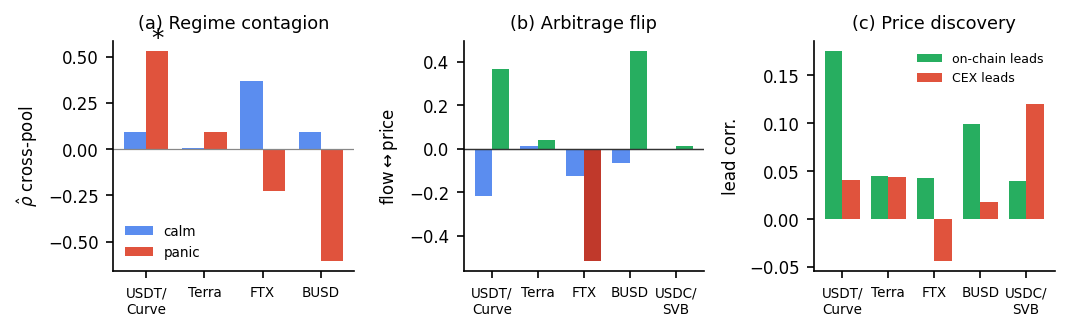
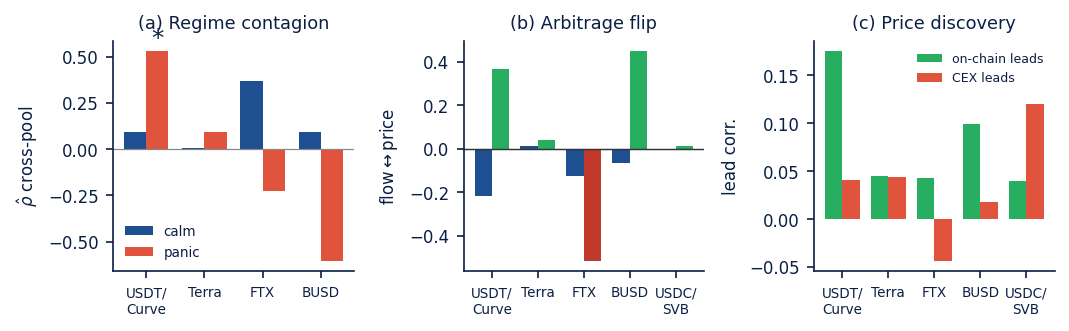
Columbia-themed figures + referee fixes: p-value discipline
- Columbia palette in composite/method figures (navy ink, Columbia-blue Tier-B)
- Paper: bootstrap one-sided p=0.035 as primary everywhere (analytic p=0.005 secondary),
  bind 116h to Terra / contemporaneous coupling to USDT-Curve

diff --git a/paper/main.tex b/paper/main.tex
@@ -62,7 +62,8 @@ episodes, we show the distinction is empirically sharp and, decisively,
 \emph{mechanism-specific}. For the June~2023 USDT/Curve episode, an
 \emph{endogenous} pool-imbalance shock, cross-pool flow coupling rises from
 near-zero in calm ($\hat{\rho}=0.09$) to $\hat{\rho}=0.53$ during the acute
-window (Fisher $z=+2.82$, block-bootstrap one-sided $p=0.035$), whereas none of the four
+window (a \emph{contemporaneous} lag-0 co-movement, not early warning; Fisher
+$z=+2.82$, block-bootstrap one-sided $p=0.035$), whereas none of the four
 \emph{exogenous} episodes (Terra/LUNA, USDC/SVB, FTX, BUSD) shows this
 activation despite identical Tier-A data, so the null is mechanism-specific,
 not a data gap. The same split governs structure and detection. On-chain
@@ -443,11 +444,12 @@ the difference via Fisher $r$-to-$z$ two-sample statistic.
 \end{equation}
 
 For USDT/Curve 2023 the coupling is near-zero in calm ($\hat{\rho}=0.09$, $p=0.38$)
-and rises to $\hat{\rho}=0.53$ during panic ($z_{\text{Fisher}}=+2.82$, $p=0.005$,
-one-sided), directional evidence consistent with contagion in the Forbes--Rigobon
-sense.  A 2000-sample block bootstrap (24-hour block length, $B=2000$) further
-supports the direction. 96.5\% of replicates yield $z>0$, equivalent to a one-sided
-$p=0.035$.  However, the 95\% CI is $[-0.10,\,+4.77]$. The lower bound is
+and rises to $\hat{\rho}=0.53$ during panic, directional evidence consistent with
+contagion in the Forbes--Rigobon sense. We take the \emph{conservative} block bootstrap
+as our primary test: a 2000-sample block bootstrap (24-hour block length, $B=2000$)
+gives a one-sided $p=0.035$, with $96.5\%$ of replicates yielding $z>0$. The parametric
+Fisher two-sample test agrees more optimistically as a secondary check
+($z_{\text{Fisher}}=+2.82$, analytic $p=0.005$). However, the 95\% CI is $[-0.10,\,+4.77]$. The lower bound is
 marginally negative owing to the short acute window ($n_{\text{panic}}{=}53$),
 and the formal two-sided test is not significant at the 0.05 level.  We therefore
 state this as \emph{strong directional evidence of coupling amplification (one-sided
@@ -467,7 +469,7 @@ shock} striking both pools simultaneously.
     red/green = panic).
     \textbf{(a)~Regime-switching contagion.}  Lag-0 cross-pool flow correlation
     in the calm vs.\ acute regime.  For USDT/Curve it jumps $0.09\!\to\!0.53$
-    ($*$. Fisher $z=2.82$, $p=0.005$). Only this endogenous shock activates,
+    ($*$. Fisher $z=2.82$; conservative block-bootstrap one-sided $p=0.035$). Only this endogenous shock activates,
     while the exogenous events stay flat or decouple.
     \textbf{(b)~Arbitrage flip.}  Contemporaneous flow-vs-price coupling.
     Negative (\emph{stabilizing}) in calm, turning positive (\emph{amplifying})

diff --git a/scripts/30_make_composite_figures.py b/scripts/30_make_composite_figures.py
@@ -12,10 +12,15 @@ from stressnet.utils.logging import get_logger
 warnings.filterwarnings("ignore"); logger = get_logger(__name__)
 
 FIG = results_root() / "paper" / "figures"; TAB = results_root() / "tables"
+_NAVY_INK = "#0A1F44"  # Columbia navy ink for axes / text
 plt.rcParams.update({"font.size": 8, "axes.titlesize": 8.5, "axes.labelsize": 8,
                      "axes.spines.top": False, "axes.spines.right": False,
-                     "figure.dpi": 150, "savefig.bbox": "tight"})
-C_CALM, C_PAN, C_POS, C_NEG = "#5B8DEF", "#E0533D", "#27AE60", "#C0392B"
+                     "figure.dpi": 150, "savefig.bbox": "tight",
+                     "text.color": _NAVY_INK, "axes.labelcolor": _NAVY_INK,
+                     "axes.titlecolor": _NAVY_INK, "axes.edgecolor": _NAVY_INK,
+                     "xtick.color": _NAVY_INK, "ytick.color": _NAVY_INK})
+# Refined Columbia palette: calm/baseline = Columbia navy; panic/pos/neg stay semantic.
+C_CALM, C_PAN, C_POS, C_NEG = "#1D4F91", "#E0533D", "#27AE60", "#C0392B"
 S = {"usdt_curve_2023":"USDT/\nCurve","terra_luna_2022":"Terra","ftx_2022":"FTX",
      "busd_2023":"BUSD","usdc_svb_2023":"USDC/\nSVB"}
 

diff --git a/scripts/31_make_method_figure.py b/scripts/31_make_method_figure.py
@@ -10,8 +10,10 @@ from stressnet.config import results_root
 from stressnet.utils.logging import get_logger
 logger = get_logger(__name__)
 
-CA, CB, CFX = "#27AE60", "#B9D9EB", "#E0533D"   # Tier-A, Tier-B, blocked/fixture
-plt.rcParams.update({"font.size": 8, "axes.titlesize": 8.5})
+CA, CB, CFX = "#27AE60", "#B9D9EB", "#E0533D"   # Tier-A green, Tier-B Columbia Blue, blocked red
+_NAVY_INK = "#0A1F44"  # Columbia navy ink for text / arrows
+plt.rcParams.update({"font.size": 8, "axes.titlesize": 8.5,
+                     "text.color": _NAVY_INK, "axes.titlecolor": _NAVY_INK})
 
 def box(ax, x, y, w, h, text, fc, ec="#333", fs=7.5, lw=1.0, tc="black"):
     ax.add_patch(FancyBboxPatch((x, y), w, h, boxstyle="round,pad=0.012,rounding_size=0.02",